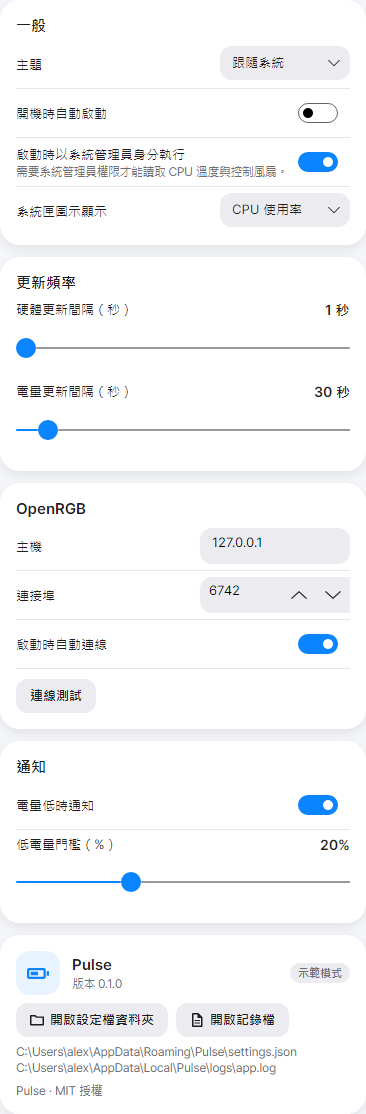
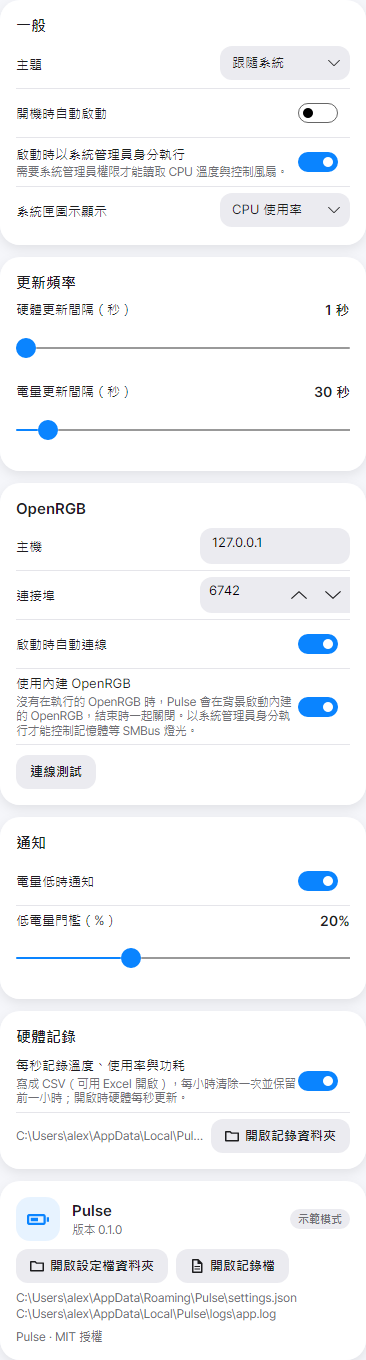
Document telemetry, bundled OpenRGB and the new quiet curve
- README: per-second hardware log, bundled OpenRGB (launch flow, job
  object, licensing), CPU quiet-until-80 C curve table, build notes
  (fetch-openrgb.ps1, -m:1 when memory is tight), project layout, and
  the known OpenRGB 1.0 UPDATEMODE limitation
- Regenerated screenshots (settings and fan-mode tabs)

diff --git a/README.md b/README.md
@@ -24,7 +24,9 @@
   - [CPU / GPU / 風扇](#4-cpu--gpu--風扇librehardwaremonitor)
     - [風扇模式](#風扇模式)
   - [RGB 燈光](#5-rgb-燈光openrgb-sdk)
-  - [托盤與介面](#6-托盤與介面avalonia)
+    - [內建 OpenRGB](#內建-openrgb)
+  - [每秒硬體記錄](#6-每秒硬體記錄)
+  - [托盤與介面](#7-托盤與介面avalonia)
 - [專案結構](#專案結構)
 - [已知限制](#已知限制)
 - [規劃](#規劃)
@@ -40,7 +42,8 @@
 | **系統** | CPU 使用率（含每個邏輯核心）、Package 溫度、時脈、功耗；每張 GPU 的使用率、核心 / 熱點溫度、VRAM、風扇、功耗、時脈；記憶體；主機板其他溫度 |
 | **燈光** | 透過 OpenRGB 控制主機板、記憶體、顯示卡、鍵鼠等 RGB：一鍵全部套色、每個裝置的模式 / 顏色 / 速度 / 分區顏色；**關燈**（單一裝置或全部）與**還原預設**（回到 Pulse 第一次偵測到裝置時的燈光狀態） |
 | **風扇** | 依主機板 / 顯示卡分組列出風扇轉速（沒接風扇的接頭自動隱藏）；四種**風扇模式**：**自動**（全部交回 BIOS / 驅動）、**靜音**（依 CPU / GPU 溫度的低噪音曲線，過熱自動交回 BIOS）、**全部同步**（所有風扇同一轉速）、**個別**（每個風扇手動模式、滑桿與「靜音 / 平衡 / 效能 / 全速」預設）。水冷泵會被自動排除 |
-| **設定** | 主題、開機自動啟動、啟動時自動提權、托盤圖示顯示內容、更新頻率、OpenRGB 主機 / 連接埠、低電量提醒門檻 |
+| **設定** | 主題、開機自動啟動、啟動時自動提權、托盤圖示顯示內容、更新頻率、OpenRGB 主機 / 連接埠與「使用內建 OpenRGB」、低電量提醒門檻、每秒硬體記錄 |
+| **硬體記錄** | 每秒把 CPU / GPU / 記憶體的使用率、溫度、功耗、時脈，以及每個風扇的轉速與控制狀態寫成 CSV（`%LOCALAPPDATA%\Pulse\logs\telemetry.csv`，可用 Excel 開啟），**每小時清除一次**並保留前一小時（`telemetry-previous.csv`） |
 
 托盤圖示本身也是即時資訊：預設顯示**最低的裝置電量**（顏色依電量變化），也可改為 CPU 溫度、GPU 溫度或 CPU 使用率；滑鼠停在圖示上會列出所有裝置與 CPU / GPU 摘要。
 
@@ -98,7 +101,7 @@
 | 作業系統 | Windows 10 1809+ / Windows 11 |
 | 執行階段 | [.NET 9 SDK](https://dotnet.microsoft.com/download/dotnet/9.0)（建置）或 .NET 9 Desktop Runtime（只執行） |
 | CPU 溫度 / 風扇控制 | **以系統管理員身分執行**，並安裝 [PawnIO](https://pawnio.eu) 核心驅動。**所有**風扇控制（包含顯示卡風扇）都需要系統管理員權限 |
-| RGB 燈光 | 安裝 [OpenRGB](https://openrgb.org/releases.html)，在「設定 › SDK Server」啟用（或以 `OpenRGB.exe --server --startminimized` 啟動） |
+| RGB 燈光 | Pulse 發行版**內附 OpenRGB**：沒有 OpenRGB 在執行時會自動在背景啟動，不必另外安裝。已經自己裝了 OpenRGB 並開著 SDK Server 也可以，Pulse 會直接連上它。記憶體、顯示卡等走 SMBus 的燈光需要以系統管理員身分執行 |
 | Logitech / ASUS 電量 | 透過接收器或 USB 連接即可，可與 G HUB 同時執行 |
 
 ### 執行
@@ -121,13 +124,18 @@ cd pulse-monitor
 | `--screenshot <資料夾>` | 把五個分頁（淺色 + 深色）與風扇三種模式輸出成 PNG 後結束（示範資料，設定只存在記憶體） |
 | `--quit` | 通知正在執行的 Pulse 正常結束（會先把風扇交回自動）並等它結束；不要用工作管理員強制結束改過風扇的 Pulse |
 
-發行成單一資料夾：
+發行成單一資料夾（含內建 OpenRGB）：
 
 ```powershell
+.\tools\fetch-openrgb.ps1        # 把 OpenRGB 放到 third_party\OpenRGB（預設從 C:\Program Files\OpenRGB 複製；或 -ZipUrl 下載官方 zip）
 dotnet publish src\Pulse.App -c Release -r win-x64 --self-contained false -o publish\win-x64
 ```
 
-設定檔在 `%APPDATA%\Pulse\settings.json`，記錄檔在 `%LOCALAPPDATA%\Pulse\logs\app.log`。
+`third_party\OpenRGB\` 不進 git；有這個資料夾時，建置與發行會自動把它連同 `NOTICE.md`、`LICENSE-GPL-2.0.txt` 放到輸出資料夾的 `OpenRGB\`。沒有的話 Pulse 照常建置，只是不附帶 OpenRGB。
+
+設定檔在 `%APPDATA%\Pulse\settings.json`，記錄檔在 `%LOCALAPPDATA%\Pulse\logs\app.log`，每秒硬體記錄在 `%LOCALAPPDATA%\Pulse\logs\telemetry.csv`。
+
+> 記憶體吃緊時（例如一邊玩遊戲一邊建置），Avalonia 的 XAML 編譯器可能出現 OutOfMemory。改用單一行程建置：`dotnet build Pulse.sln -m:1 -nodeReuse:false`。
 
 ---
 
@@ -158,7 +166,7 @@ flowchart LR
 
 - **`Pulse.Core`** 只定義契約：`IBatteryProvider`（回傳 `BatteryDevice` 清單）、`IHardwareMonitor`（`HardwareSnapshot` + `SetFanAsync`）、`IRgbController`，以及設定、提權、開機啟動等平台服務。UI 完全不知道資料從哪來。
 - 每個資料來源是獨立類別庫，透過 `AddXxx()` 擴充方法註冊到 DI；非 Windows 平台或缺少的服務自動以 `Null*` 實作補上，所以介面在任何平台都能啟動。
-- **`MonitoringService`** 以兩個 `PeriodicTimer` 分別輪詢電量（預設 30 秒，面板打開時立即刷新）與硬體（預設 2 秒）。所有 provider 都在執行緒集區執行、各自錯誤隔離（一個 provider 失敗不影響其他），結果再以 `Dispatcher.UIThread.Post` 切回 UI 執行緒發佈。
+- **`MonitoringService`** 以兩個 `PeriodicTimer` 分別輪詢電量（預設 30 秒，面板打開時立即刷新）與硬體（預設 2 秒；開啟每秒硬體記錄時為 1 秒）。所有 provider 都在執行緒集區執行、各自錯誤隔離（一個 provider 失敗不影響其他），結果再以 `Dispatcher.UIThread.Post` 切回 UI 執行緒發佈。
 - `--demo` 會把所有 provider 換成假資料實作，用來開發介面與產生截圖。
 
 ### 1. 藍牙裝置電量（Windows）
@@ -222,15 +230,16 @@ ROG 無線鍵盤（如 Falchion）的 2.4 GHz 接收器會提供一個廠商 HID
 
 **切換模式或把風扇排除出群組時，一律先把受影響的風扇交回韌體，再套用新模式。**
 
-**靜音曲線**（溫度來源：顯示卡風扇用該顯示卡的核心溫度，其他風扇用 CPU Package 溫度）：
+**靜音曲線**（溫度來源：顯示卡風扇用該顯示卡的核心溫度，其他風扇用 CPU Package 溫度；CPU 在 80 °C 以下都維持低轉速）：
 
-| 溫度 | 轉速 |
-|---|---|
-| ≤ 50 °C | 最低轉速 = max(風扇最小值, 主機板 35 % / 顯示卡 30 %) |
-| 50–70 °C | 從最低轉速線性增加到 60 %（例如 60 °C → 47.5 %） |
-| 70–75 °C | 60 % |
-| **≥ 75 °C** | **立即交回韌體自動控制**，直到溫度降到 **≤ 68 °C** 才恢復曲線（遲滯，避免來回切換） |
-| 讀不到溫度 | 交回韌體自動控制（同樣要降到 68 °C 以下才恢復） |
+| | 主機板風扇（依 CPU Package 溫度） | 顯示卡風扇（依 GPU 核心溫度） |
+|---|---|---|
+| 最低轉速 | max(風扇最小值, 35 %)，**≤ 75 °C** 都維持 | max(風扇最小值, 30 %)，≤ 50 °C |
+| 緩升 | 75–80 °C 線性升到 50 % | 50–70 °C 線性升到 60 %（70–75 °C 維持 60 %） |
+| **交回自動** | **≥ 80 °C** 立即交回 BIOS，降到 **≤ 72 °C** 才恢復 | **≥ 75 °C** 立即交回驅動，降到 **≤ 68 °C** 才恢復 |
+| 讀不到溫度 | 交回自動控制 | 交回自動控制 |
+
+（交回與恢復之間的溫差是遲滯，避免在門檻附近來回切換。）
 
 為了不讓風扇忽快忽慢，靜音模式只在新轉速與上次寫入相差 ≥ 3 % 時才寫入，且每個風扇最多每 4 秒寫一次；交回韌體則永遠立即執行。
 
@@ -258,7 +267,29 @@ ROG 無線鍵盤（如 Falchion）的 2.4 GHz 接收器會提供一個廠商 HID
 - 用戶端是 [OpenRGB.NET](https://github.com/diogotr7/OpenRGB.NET) 3.1.1。實測發現 OpenRGB 關閉後，這個函式庫的 `Connected` 屬性仍會維持 `true`，而且讀取迴圈會讓一個 CPU 核心空轉到 100 %。所以 Pulse 會每 2 秒以及每次呼叫前直接檢查底層 socket（`OpenRgbClientProbe`），一旦發現斷線就丟棄用戶端並在介面上提示。
 - 每個操作都有逾時與取消機制，並以 `SemaphoreSlim` 序列化；連不上時面板會顯示安裝與啟用 SDK Server 的步驟。
 
-### 6. 托盤與介面（Avalonia）
+#### 內建 OpenRGB
+
+OpenRGB 支援數百種裝置，而記憶體、顯示卡燈光要經過 SMBus / I²C，自己重寫風險很高，所以 Pulse 選擇**隨附 OpenRGB 並把它當成背景服務**，而不是複製它的程式碼：
+
+1. 連線前（`MonitoringService.ConnectRgbAsync`），`OpenRgbServerLauncher` 先試連 SDK 埠。已經有 OpenRGB 在聽（使用者自己開的）就直接使用，Pulse 不會去關它。
+2. 沒有的話，且「使用內建 OpenRGB」開著、主機是本機，就啟動 `<Pulse 資料夾>\OpenRGB\OpenRGB.exe --server --server-port 6742 --noautoconnect`：只開 SDK 伺服器、沒有視窗，等埠開啟（最多 30 秒）後再連線。
+3. OpenRGB 會先開埠、再慢慢偵測裝置，所以 Pulse 在之後 30 秒內每 2 秒重讀一次裝置清單，數量有變就更新燈光分頁。
+4. Pulse 以 **Job Object（kill-on-close）** 綁住這個 OpenRGB：Pulse 正常結束時主動關掉它；就算 Pulse 被強制結束或當機，Windows 也會一併結束它，不會殘留在背景。
+5. 子程序繼承 Pulse 的權限：以系統管理員身分執行時，OpenRGB 才能經由 PawnIO 存取 SMBus（記憶體燈光）。
+
+授權：OpenRGB 是 GPL-2.0，Pulse 是 MIT。兩者是獨立程式、只透過 TCP 溝通，沒有互相連結，所以可以一起散佈；發行資料夾的 `OpenRGB\` 內附 `NOTICE.md`（作者、原始碼位置）、`LICENSE-GPL-2.0.txt` 與 `SOURCE.txt`（這份副本的來源與 SHA-256）。
+
+### 6. 每秒硬體記錄
+
+`TelemetryLogger` 訂閱每次硬體快照（開啟記錄時硬體每秒輪詢一次），把一行 CSV 放進有上限的佇列，由背景執行緒寫檔，不會卡住介面：
+
+- 欄位：時間、硬體狀態、風扇模式、CPU 使用率 / 溫度 / 最高核心溫度 / 時脈 / 功耗、每張 GPU 的使用率 / 溫度 / 熱點 / 顯存溫度 / 功耗 / 時脈 / 顯存用量、記憶體用量，以及每個**偵測到的**風扇（轉速、工作週期、風扇模式狀態）與主機板其他溫度。
+- 欄位在檔案開始時決定：先收集 4 筆樣本，等「沒接風扇的接頭」判定完成再寫表頭，所以不會出現永遠是 0 的風扇欄位。
+- **每到整點清除**：目前的檔案改名為 `telemetry-previous.csv`（覆蓋更早的那份），再開新檔；每次啟動 Pulse 也會先把舊檔移過去。磁碟上最多約兩小時的資料。
+- 檔案是 UTF-8（含 BOM），Excel 開啟中文欄位名稱不會亂碼；寫入時允許其他程式同時讀取。
+- 示範模式不寫入。設定 › 硬體記錄可以關閉，關閉後硬體輪詢回到「更新頻率」的設定值。
+
+### 7. 托盤與介面（Avalonia）
 
 - **UI 框架**：[Avalonia 11](https://avaloniaui.net)（跨平台 XAML），搭配 Fluent 主題，MVVM 使用 CommunityToolkit.Mvvm 的 source generator（`[ObservableProperty]`、`[RelayCommand]`），並開啟 compiled bindings。
 - **托盤圖示**：以 SkiaSharp 在記憶體中繪製 32 × 32 圖示（彩色圓環加上數字，或電池圖示），編碼成 PNG 後交給 Avalonia 的 `TrayIcon`，因此不需要任何視窗也能更新。
@@ -277,15 +308,18 @@ src/
   Pulse.Logitech/  HID++ 1.0 / 2.0 電量（HidSharp）
   Pulse.Asus/      ASUS ROG / TUF 周邊電量（HidSharp）
   Pulse.Hardware/  LibreHardwareMonitor：CPU / GPU / 記憶體 / 風扇與風扇控制
-  Pulse.Rgb/       OpenRGB SDK 用戶端與斷線偵測
+  Pulse.Rgb/       OpenRGB SDK 用戶端、斷線偵測、內建 OpenRGB 啟動器
   Pulse.App/       Avalonia 托盤應用
     Views/         彈出面板與五個分頁
     ViewModels/    MVVM
-    Services/      MonitoringService、托盤、設定、記錄、截圖
+    Services/      MonitoringService、FanModeService、TelemetryLogger、托盤、設定、記錄、截圖
     Controls/      RingGauge、StatPill
     Styles/        主題色彩、控制項樣式、圖示（StreamGeometry）
     Demo/          示範資料
-docs/screenshots/  介面截圖
+tools/fetch-openrgb.ps1        準備要隨附的 OpenRGB（third_party\OpenRGB，不進 git）
+third_party/OpenRGB-NOTICE.md  OpenRGB 的作者、授權與原始碼說明
+licenses/GPL-2.0.txt           OpenRGB 的授權全文
+docs/screenshots/              介面截圖
 run.ps1 / run-admin.ps1
 ```
 
@@ -294,6 +328,7 @@ run.ps1 / run-admin.ps1
 - Windows 對藍牙裝置只提供電量百分比，沒有充電狀態；不回報電量的裝置（例如 A2DP 音響）只會顯示名稱。
 - ASUS ROG：Falchion（2.4 GHz）已經實機驗證；其他 ROG 鍵盤 / 滑鼠屬於盡力支援，因為各型號的電量位置可能不同。
 - OpenRGB.NET 3.1.1 無法設定「亮度」，介面上已標示；同樣的原因，「還原預設」也無法還原亮度與顏色模式（固定 / 隨機）。
+- **OpenRGB 1.0 會忽略 OpenRGB.NET 3.1.1 送出的 `UPDATEMODE` 封包**（新版伺服器檢查封包內的長度欄位，舊用戶端的值不符就丟棄）。因此在 OpenRGB 1.0 上，「切換模式」、「還原成 Rainbow 等韌體燈效」、以及對有 `Off` 模式的裝置「關燈」不會生效；改顏色（Direct + `UPDATELEDS`）正常。實測 `SETCUSTOMMODE` + 全黑 LED 可以關燈。尚未修正。
 - 風扇設定（包括各種模式）只在 Pulse 執行期間有效，結束時交回韌體；「全部同步」會把被其他軟體（Armoury Crate、Afterburner）改掉的轉速改回來，其他模式不會偵測。
 - 風扇控制需要系統管理員權限；被強制結束時主機板風扇要重新開機才會恢復 BIOS 曲線。
 - 低電量提醒顯示在面板內，不是 Windows 系統通知。
@@ -310,5 +345,7 @@ run.ps1 / run-admin.ps1
 ## 授權
 
 [MIT](LICENSE)
+
+發行版隨附的 OpenRGB 是獨立程式，採 [GPL-2.0](licenses/GPL-2.0.txt) 授權，說明見 [third_party/OpenRGB-NOTICE.md](third_party/OpenRGB-NOTICE.md)。
 
 使用的開源專案：[Avalonia](https://github.com/AvaloniaUI/Avalonia)、[LibreHardwareMonitor](https://github.com/LibreHardwareMonitor/LibreHardwareMonitor)、[HidSharp](https://www.zer7.com/software/hidsharp)、[OpenRGB.NET](https://github.com/diogotr7/OpenRGB.NET)、[CommunityToolkit.Mvvm](https://github.com/CommunityToolkit/dotnet)。HID++ 協定的細節參考自 [Solaar](https://github.com/pwr-Solaar/Solaar)，ASUS 協定參考自 [OpenRGB](https://gitlab.com/CalcProgrammer1/OpenRGB)。
